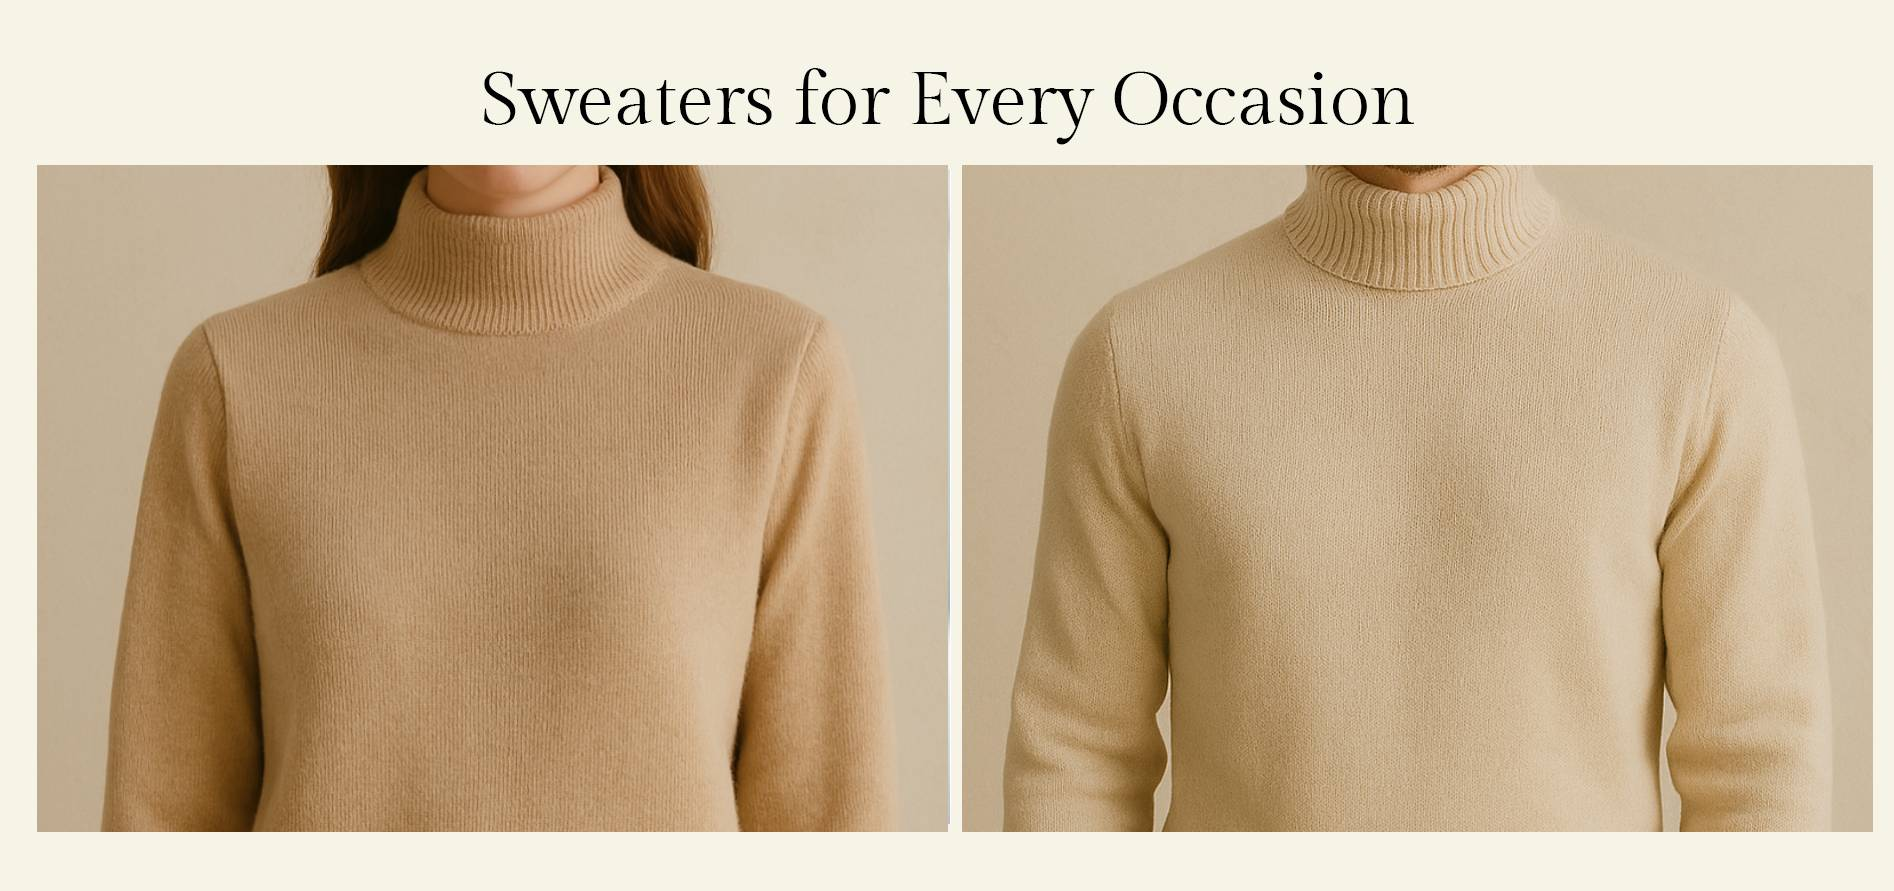
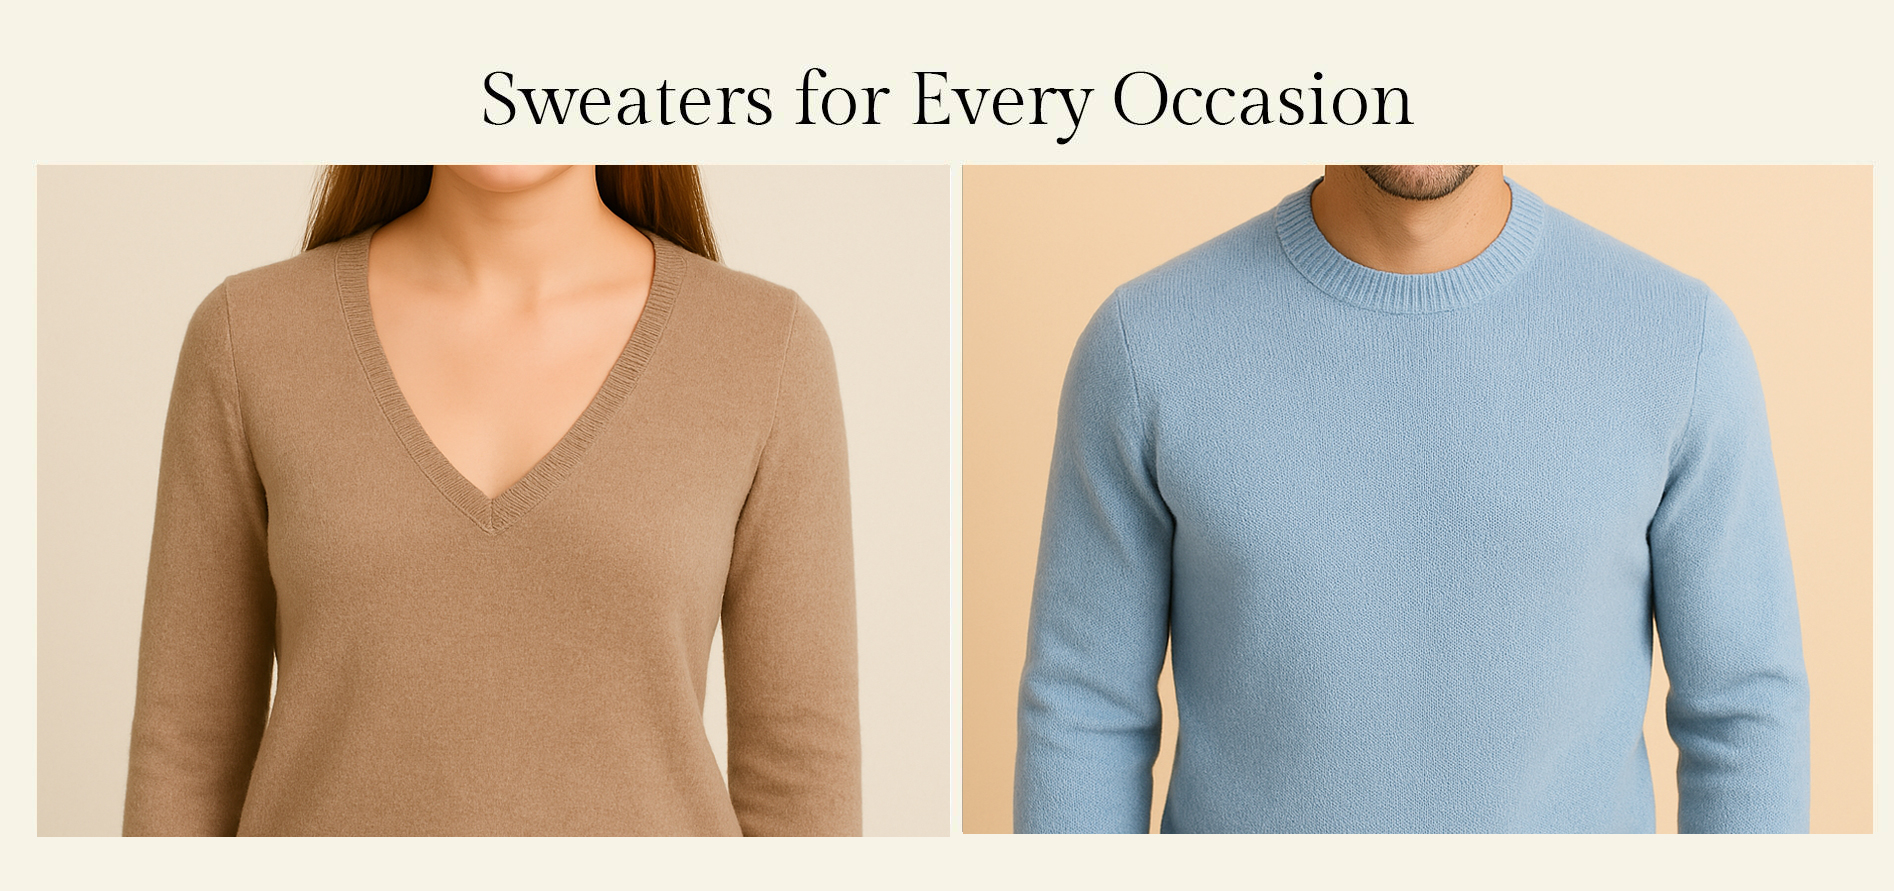
add new image

diff --git a/app/page.tsx b/app/page.tsx
@@ -22,9 +22,6 @@ export default async function Home() {
           <div className="flex">
             <div className="full-width-div  gap-2">
               <ResponsiveImage />
-              <div className="contact-details">
-              <a href="mailto:contact@bespokecashmere.eu">contact@bespokecashmere.eu</a>/<a href="tel:+453132 7890">+45 3132 7890</a>
-              </div>
             </div>
           </div>
         </div>
